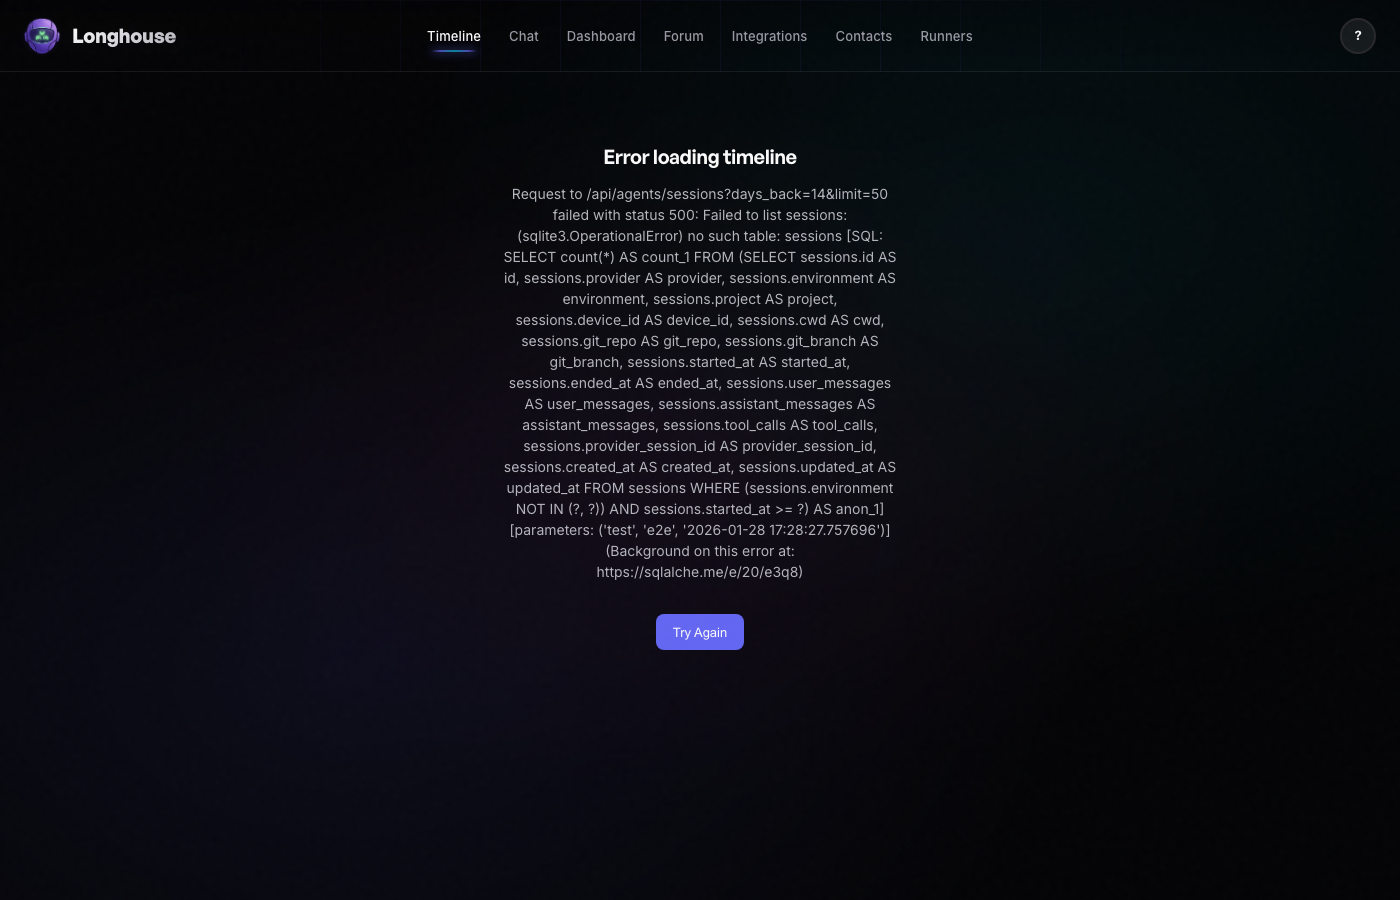
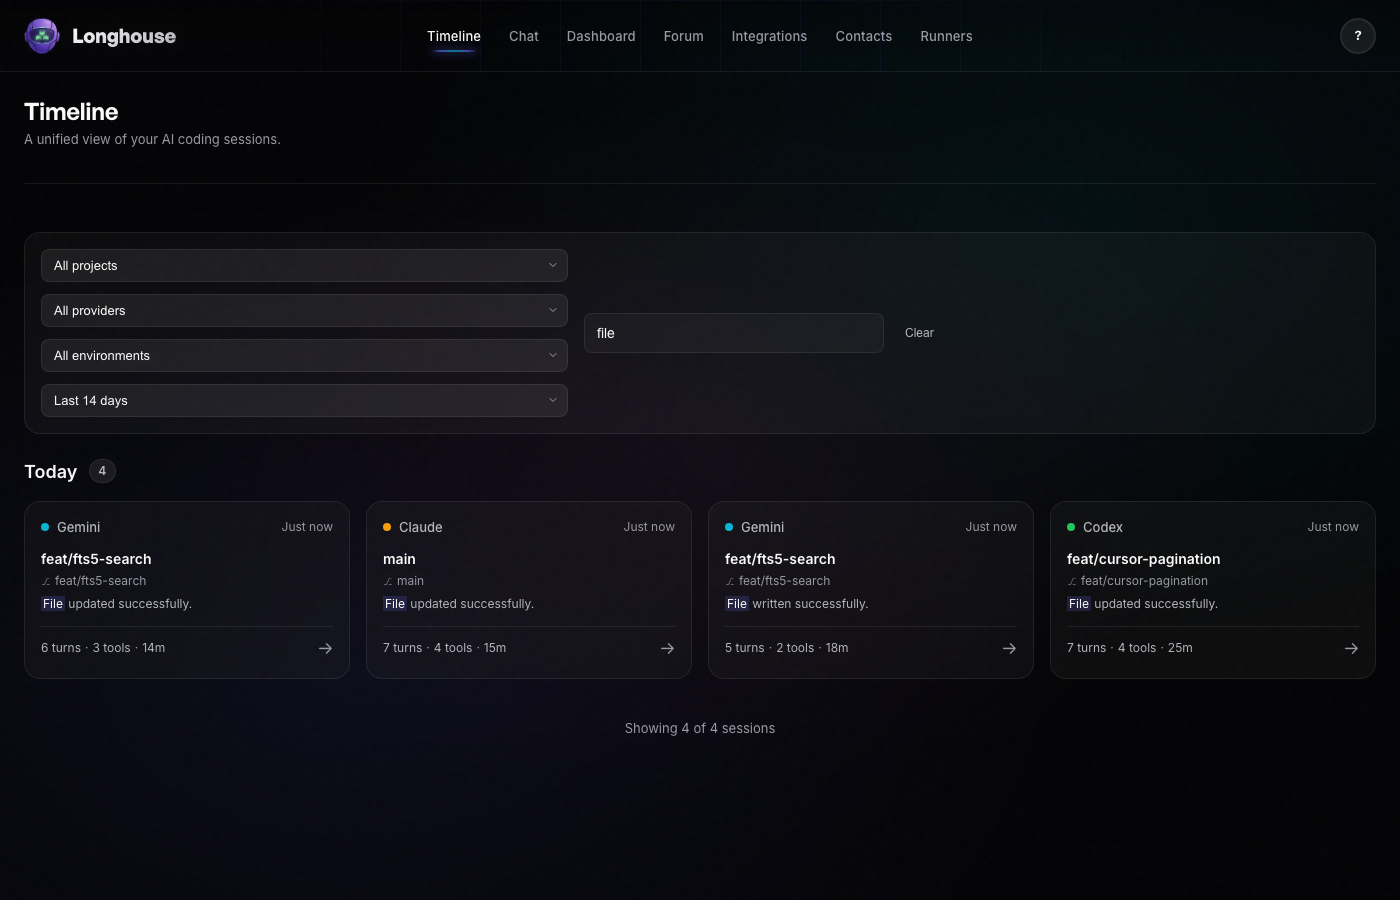
fix: recapture marketing screenshots with working API + dynamic session IDs
- Add resolve_url_templates() to capture script for {first_session_id}
- Fix search-preview URL to use ?query= param (matches frontend code)
- Recapture all 3 screenshots with live demo data (no error states)
- Session detail now dynamically resolves first session UUID via API

diff --git a/scripts/capture_marketing.py b/scripts/capture_marketing.py
@@ -13,7 +13,9 @@ Usage:
 """
 
 import argparse
+import json
 import sys
+import urllib.request
 from pathlib import Path
 
 import yaml
@@ -28,6 +30,22 @@ def load_manifest():
         return yaml.safe_load(f)
 
 
+def resolve_url_templates(url: str, base_url: str) -> str:
+    """Replace {first_session_id} and similar placeholders with live API data."""
+    if "{first_session_id}" not in url:
+        return url
+    api_url = base_url.replace("://localhost:47200", "://localhost:47300")
+    api_url = api_url.replace("://localhost:30080", "://localhost:30080")
+    try:
+        resp = urllib.request.urlopen(f"{api_url}/api/agents/sessions?days_back=30&limit=1")
+        data = json.loads(resp.read())
+        session_id = data["sessions"][0]["id"]
+        return url.replace("{first_session_id}", session_id)
+    except Exception as e:
+        print(f"  Warning: Could not resolve session ID: {e}")
+        return url
+
+
 def capture_screenshot(browser, name: str, config: dict, base_url: str):
     """Capture a single screenshot."""
     from playwright.sync_api import TimeoutError as PlaywrightTimeout  # noqa: PLC0415
@@ -36,8 +54,9 @@ def capture_screenshot(browser, name: str, config: dict, base_url: str):
         viewport={"width": config["viewport"]["width"], "height": config["viewport"]["height"]}
     )
 
-    url = f"{base_url}{config['url']}"
-    print(f"  Navigating to {config['url']}")
+    resolved_path = resolve_url_templates(config["url"], base_url)
+    url = f"{base_url}{resolved_path}"
+    print(f"  Navigating to {resolved_path}")
     page.goto(url)
 
     # Wait for app to signal screenshot readiness (content loaded, animations settled)
